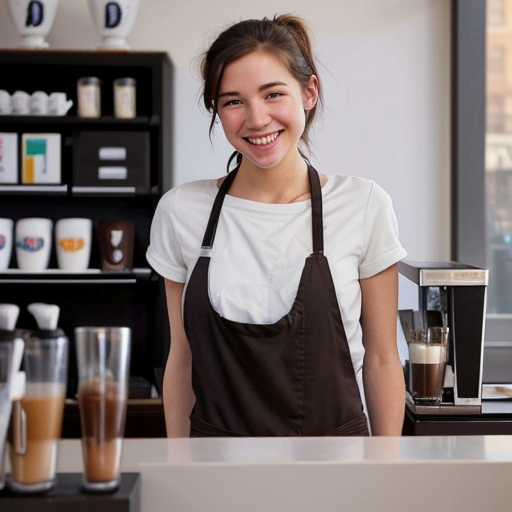
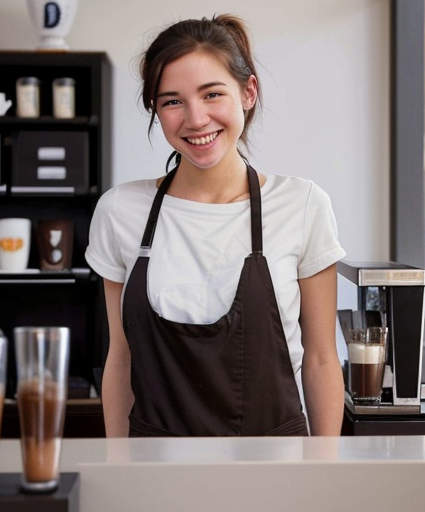
added Staff section in the Homepage

diff --git a/frontend/src/components/StaffCard.js b/frontend/src/components/StaffCard.js
@@ -1,0 +1,25 @@
+import React from "react";
+export default function StaffCard(props){
+    const [isHover, setIsHover]=React.useState(false);
+    return (
+        <div onMouseEnter={()=>setIsHover(true)} onMouseLeave={()=>setIsHover(false)} style={{
+            display: "flex",
+            flexDirection:"column",
+            justifyContent:"center",
+            alignItems:"center"
+        }}>
+            <div style={{display:"flex", flexDirection:"column", width: "100%", height: "495px", backgroundImage: `url(${props.data.image})`, backgroundSize:"cover", backgroundRepeat:"no-repeat", placeContent:"flex-end"}}>
+                <div className="staff--card" style={{
+                    backgroundColor:"rgba(0,0,0,0.5)",
+                    color: "rgb(212, 193, 16)",
+                    visibility: isHover?"visible":"hidden"
+                }}>
+                    <h3 style={{fontFamily:"'Handlee', cursive"}}>{props.data.name}</h3>
+                    <h3 style={{fontFamily:"'Handlee', cursive"}}>Position: {props.data.role}</h3>
+                    <p style={{fontFamily:"'Handlee', cursive"}}>Description: {props.data.description}</p>
+                </div>
+            </div>
+            
+        </div>
+    )
+}

diff --git a/frontend/src/documents/staffData.js b/frontend/src/documents/staffData.js
@@ -1,0 +1,26 @@
+import Arthur from "../images/Arthur.png"
+import Mary from "../images/Mary.png"
+import Billy from "../images/Billy.png"
+import Kieran from "../images/Kieran.png"
+
+export const staff=[{
+    name: "Arthur",
+    role: "Manager",
+    description:"",
+    image: Arthur
+},{
+    name: "Kieran",
+    role: "Barista",
+    description:"",
+    image: Kieran
+},{
+    name: "Billy",
+    role: "Barista",
+    description:"",
+    image: Billy
+},{
+    name: "Mary",
+    role: "Cashier",
+    description:"",
+    image: Mary
+},]

diff --git a/frontend/src/components/Staff.js b/frontend/src/components/Staff.js
@@ -1,0 +1,15 @@
+import React from "react";
+import "../css/Staff.css"
+import StaffCard from "./StaffCard";
+import {staff} from "../documents/staffData"
+export default function Staff(){
+    const element=staff.map(el=><StaffCard data={el}/>);
+    return(
+        <div style={{textAlign:"center"}}>
+            <h1 style={{color: "rgb(212, 193, 16)"}}>Our Staff</h1>
+            <div className="staff">
+                {element}
+            </div>
+        </div>
+    )
+}

diff --git a/frontend/src/components/HomePage.js b/frontend/src/components/HomePage.js
@@ -1,6 +1,7 @@
 import "../css/HomePage.css"
 import banner from "../images/homepage_banner.png"
 import About from "./About"
+import Staff from "./Staff"
 export default function HomePage(){
     return(
         <div className="homepage">
@@ -24,6 +25,7 @@ export default function HomePage(){
             }}>Book Now</h2>
             <img src={banner} style={{width:"100%"}}/>
             <About/>
+            <Staff/>
         </div>
     )
 }

diff --git a/frontend/src/css/Staff.css b/frontend/src/css/Staff.css
@@ -1,0 +1,8 @@
+.staff{
+    display: grid;
+    grid-template-columns: 21% 21% 21% 21%;
+    gap: 1.5%;
+    padding-left: 5%;
+    padding-right: 5%;
+    place-content: center;
+}
